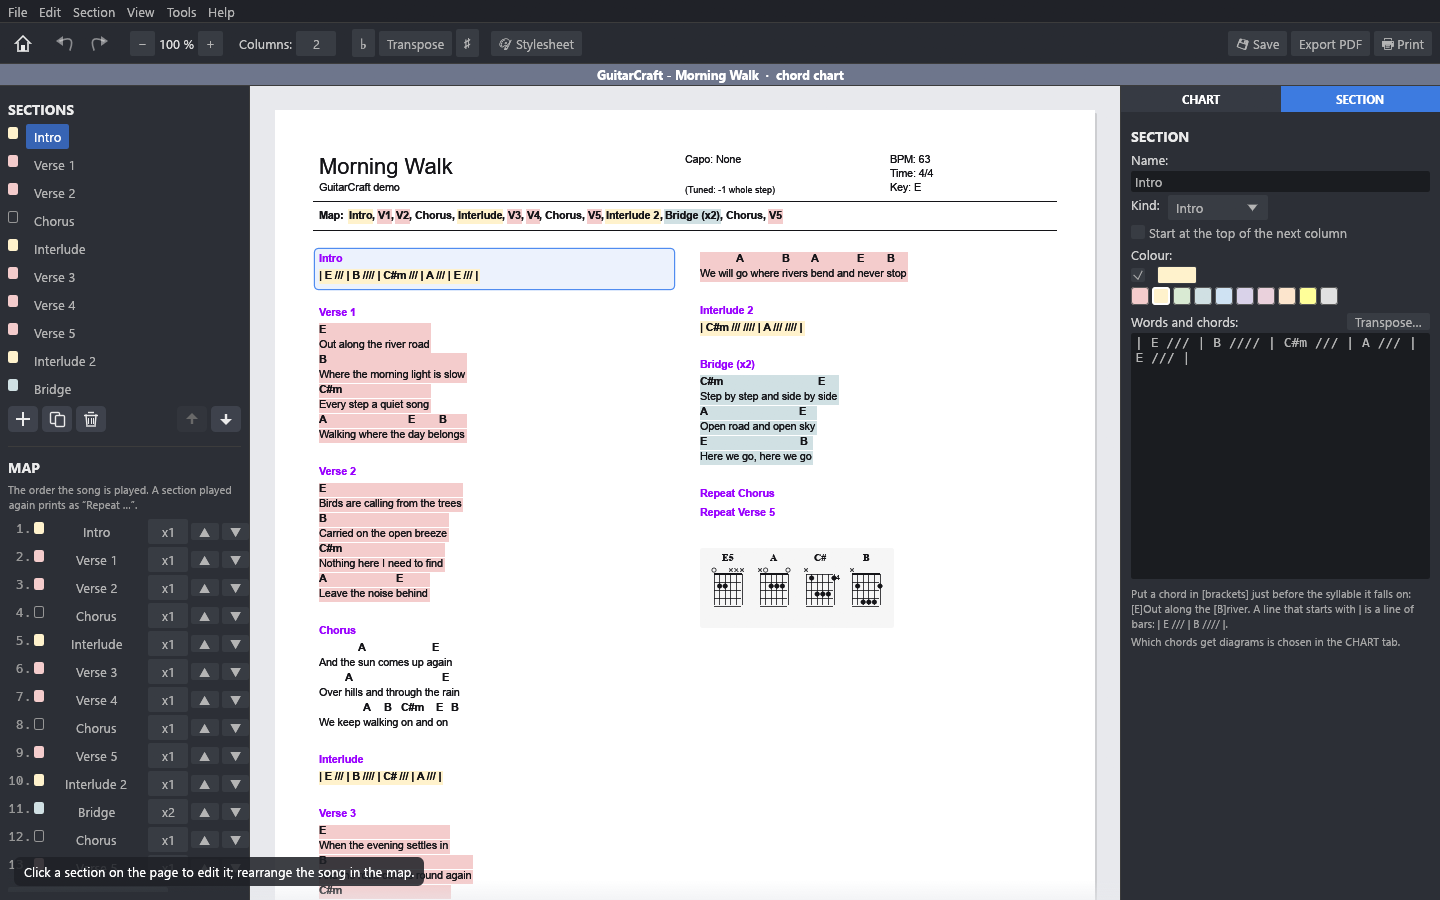
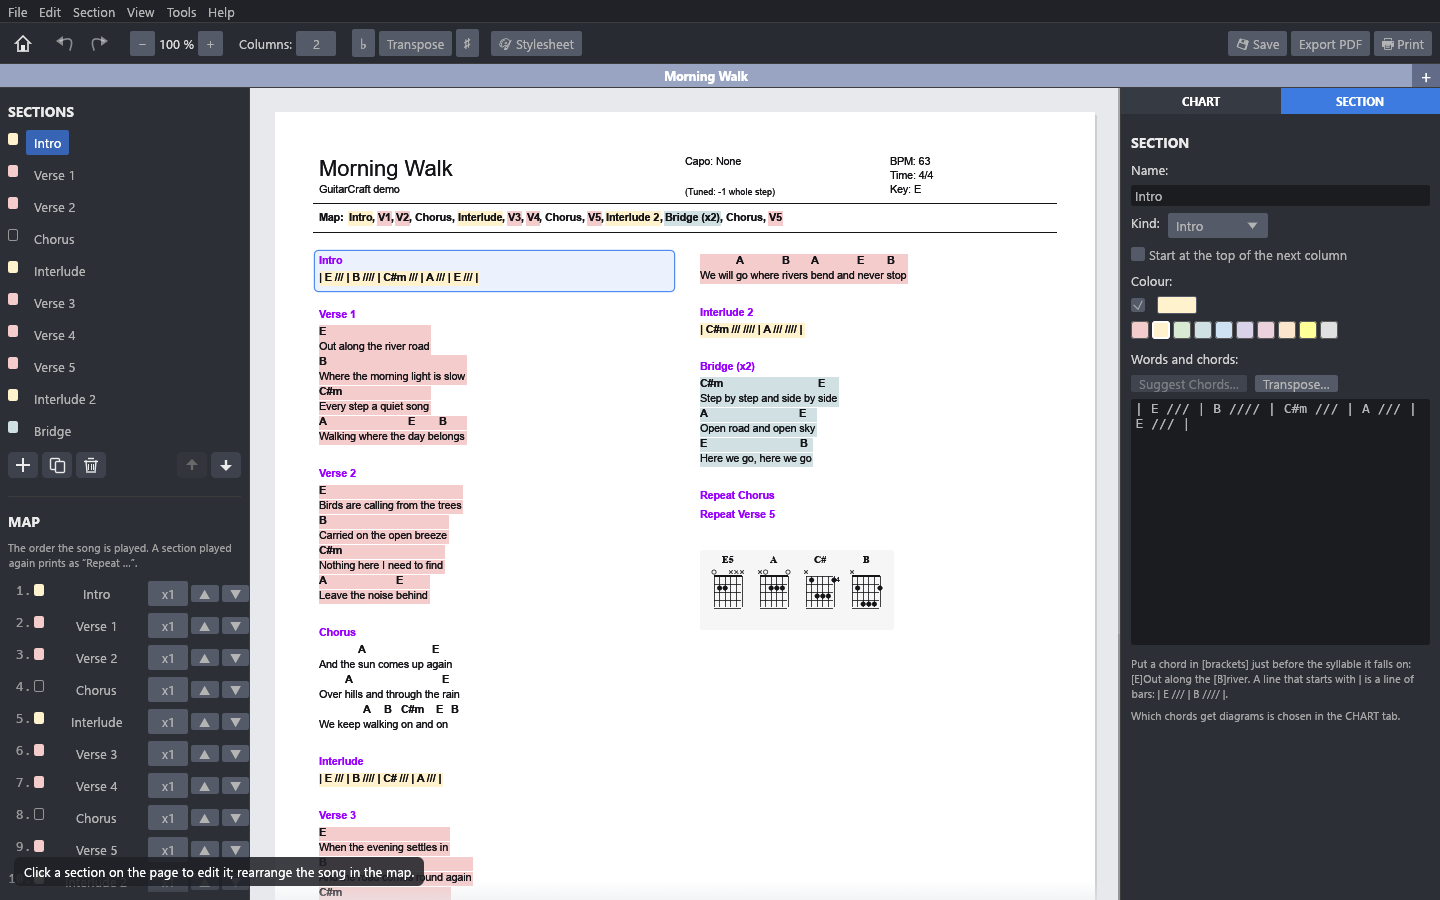
Shorten the readme to a brief overview, with new pictures
The readme now says what GuitarCraft is, lists its features in a line each, covering what 0.11.0
adds, and shows three pictures taken from the current app. Supported systems, building, the
command-line options, testing and releasing move to docs/development.md. How to use things is
left to the user guide in the app.

diff --git a/README.md b/README.md
@@ -1,160 +1,53 @@
 # GuitarCraft
 
-<p align="center"><img src="docs/readme/editing.png" alt="GuitarCraft editing the demo song: the editing palette on the left, a steel guitar and a bass in standard notation and tablature, the song information on the right and the tracks with their mixer below" width="800"></p>
+GuitarCraft is a desktop app for Windows for writing, editing and playing guitar music in tablature and standard notation, and for making chord charts: lyrics with the chords above them, ready to print.
 
-**GuitarCraft** is a desktop app, written in Rust, for writing, editing and playing guitar music in tablature and standard notation, and for making chord charts: lyrics with the chords above them, ready to print.
+It is a clean-room clone of Guitar Pro 8, generated with [Craft Anything](https://github.com/storytold/craft-anything). The goal is a good music editor rather than an exact copy.
 
-It is a **clean-room clone of Guitar Pro 8**, generated with [Craft Anything](https://github.com/storytold/craft-anything). "Clean room" means the original program was never opened, run, decompiled or read: GuitarCraft was built from screenshots, the public user guide, and the community-documented file formats.
+**It is an early version for trying out.** Save your work often, and keep a copy of any song you care about before editing it.
 
-The goal is a good music editor, not an exact copy of Guitar Pro 8. GuitarCraft follows the original where that helps, but some of its features, such as the recorded sound banks, the pedalboard and audio tracks, may never be cloned.
-
-GuitarCraft opens and saves Guitar Pro files (`.gp` and `.gp5`) and also opens `.gpx`, `.gp3`, `.gp4`, MusicXML, MIDI and plain-text tab, so you can keep working on the songs you already have. A song saved by GuitarCraft opens in Guitar Pro 8, with its tracks, notes, tuning, volume, pan, mute, solo and hidden tracks.
-
-## Status
-
-**An early version for trying out.** It is usable for writing and playing songs, but it is young: please save your work often, and keep a copy of any song you care about before editing it.
-
-Not there yet: importing TablEdit and Power Tab files. Expect rough edges and differences from the original.
-
-Not planned for now: the original's recorded sound banks and effects, the pedalboard, audio tracks and line-in. These are about sound production rather than writing music, so they may never be added.
-
-<p align="center"><img src="docs/readme/playing.png" alt="Playback: an orange cursor on the note being heard in every track, and the bar being played lightly shaded" width="800"></p>
-
-<p align="center">
-<img src="docs/readme/band.png" alt="A five-track band song: vocals with lyrics, piano on a grand staff, guitar and bass with tablature, and drums on a percussion staff" width="395">
-<img src="docs/readme/tuning.png" alt="The Tuning window: a tuning chosen from the library, each string with its note and a play button, flats or sharps, capo and partial capo" width="395">
-</p>
+![GuitarCraft editing a song for guitar and bass, with the editing palette, the score and the track mixer](docs/readme/editing.png)
 
 ## Features
 
-### Chords & Scales
+- **Write songs** for guitar, bass, drums, keyboard and other instruments, in tablature, standard or numbered notation, with fretboard, keyboard and drumkit views to click notes in.
+- **Play them back** with the built-in sound or a MIDI device, with a mixer, looping and a speed trainer.
+- **Fine-tune how notes sound:** how long they last, how early or late they start and how loud they are.
+- **Keep your existing songs:** open Guitar Pro, MusicXML, MIDI and text tab files, and save songs that Guitar Pro 8 opens, keeping most of the settings its files already have.
+- **Export and print** to Guitar Pro, MIDI, MusicXML, text tab, PDF, images and audio, and convert many files at once.
+- **Find chords and scales** on the fretboard, or click some notes and see what chord they make.
+- **Make chord charts** from lyrics and chords, transpose them and print them.
+- **Arrange your workspace** with panels you can move, float or pop out into their own windows.
+- **Ask an assistant** (optional) about your music or about GuitarCraft, or for chords to go with your lyrics.
 
-**Tools > Chords & Scales** opens a pop-up toolkit for building and identifying chords, scales and arpeggios on a fretboard. Choose a root and a type from the lists and the notes light up on the neck, as note names or as intervals, over the whole neck or one position at a time. It has 47 scales and 48 chord types, in any of eight tunings or the tuning of the current track.
+The assistant uses Ollama or Claude, and nothing is sent until you ask. With Claude, your question and the related parts of your song or chart go to Anthropic; Claude Code also adds your account's email address, your operating system, the date and the top folder of your system drive.
 
-<p align="center">
-<img src="docs/readme/scales.png" alt="The Chords and Scales window on the Scales tab: D major shown over the whole fretboard, with the lists of roots, scales and positions, and buttons for notes or intervals, matching chords, playing and showing the notes on the main fretboard" width="800">
-</p>
+Not there yet: importing TablEdit and Power Tab files. Not planned for now: Guitar Pro's recorded sound banks and effects, the pedalboard, audio tracks and line-in.
 
-- **Scales and arpeggios:** see every note of a scale, or the notes of a chord played one after another. "Matching Chords" lists the chords built on a scale, "Matching Scales" the scales that fit a chord, and "Scales in the bar" finds the scales that hold every note of the bars you have selected. Play them, or show them on the fretboard under the score.
-- **Chords:** every chord type gets several playable fingerings, one for each part of the neck, drawn with finger numbers. The fingerings are worked out from the chord name and the tuning rather than looked up in a list, so unusual chords work too. "Put on beat" names the beat under the cursor and shows the chord diagram, and an empty beat gets the notes as well.
-- **Identify:** click the notes you are playing on the fretboard and GuitarCraft names the chord, lists its other names (such as `B sus2 / F♯` for the same notes) and the scales that contain them.
+## Screenshots
 
-<p align="center">
-<img src="docs/readme/chords.png" alt="The Chords tab: an E sus4 chord with its notes on the fretboard, and a list of fingerings with small diagrams" width="395">
-<img src="docs/readme/identify.png" alt="Identify: three notes clicked on the fretboard are named F sharp sus4, with other names (B sus2 over F sharp, B 5add9 over F sharp) and the scales that contain the notes" width="395">
-</p>
+**Writing a drum part with the drumkit view**
 
-<p align="center"><img src="docs/readme/arpeggios.png" alt="The Arpeggios tab: the notes of a D minor arpeggio over the whole fretboard, with the list of chord types and neck positions" width="800"></p>
+![A drum part in the score, with the drumkit view below it showing each sound of the kit](docs/readme/drums.png)
 
-### Chord charts
+**A chord chart**
 
-**Chord charts** (File > New Chord Chart, Ctrl+Shift+N) are a second kind of document for lead sheets. You write sections of lyrics with chords inline (`[E]Let my heart be a [B]temple`) or as bars of chords (`| E /// | B //// |`), and a map sets the order the sections are played in. Moving a section moves it in the map, and the text flows through the columns and pages as in a word processor. The chord diagrams are worked out from the chord names and are optional.
-
-<p align="center"><img src="docs/readme/chart.png" alt="A chord chart open for editing: the sections and the map on the left, the printed page in the middle with chords above the lyrics and coloured sections, and the chart and section settings on the right" width="800"></p>
-
-Transpose (Ctrl+T, or the ♭ and ♯ buttons) moves the whole chart or a single section into another key, with sharps or flats. The tempo, key and time use the same editors as a score. Charts have their own stylesheet (F7), with Standard and Stage styles, and they print and export like scores. They are saved as `.gcx` files. There is a sample in `samples/`.
-
-**Suggest Chords** (the Section panel, or the Section menu) asks Claude for chords to put on a section's words, in the chart's key and in a style you can describe. The section as it is shows beside the suggestion, and nothing changes until you press Use These; one Undo takes it back, and your words stay exactly as you wrote them. It needs Claude Code or a Claude API key switched on in Preferences > AI. Only that section's words, the key and the style are sent (Claude Code adds the details listed under AI Assistant below).
-
-### Import, export and batch conversion
-
-**File > Import** and **File > Export** are laid out like Guitar Pro 8's. Import takes MIDI, MusicXML (`.musicxml`, `.xml` and compressed `.mxl`) and ASCII tab. Export writes GPX (Guitar Pro 6), GP5, MIDI, ASCII tab, MusicXML, PDF, SVG, PNG and an audio recording (WAV). The GPX files are laid out as Guitar Pro 8 lays them out, and it opens them. (TablEdit and Power Tab are in the menu but greyed out, because their file formats aren't publicly described.) These menus work on scores; chord charts export to PDF and PNG.
-
-<p align="center">
-<img src="docs/readme/export-menu.png" alt="The File menu with the Export submenu open: GPX, GP5, MIDI, ASCII, MusicXML, PDF, SVG, PNG and Audio" width="300">
-<img src="docs/readme/batch.png" alt="The Batch Converter window: a list of files, a format to convert to, and where to save them" width="480">
-</p>
-
-The **Batch Converter** (File > Batch Converter) turns many song files into another format in one go: add files or a whole folder, pick the format (Guitar Pro, GPX, GP5, MIDI, MusicXML, ASCII tab or PDF), and save them next to the originals or in one folder.
-
-### More
-
-- With the start screen (Browse) showing, only File (open and import) and Help are available, as in Guitar Pro 8.
-- **Edition palette:** more note and beat marks (legato, wah, arpeggio, golpe, pick scrape, fingering, timer and more) and bar repeat signs. GuitarCraft writes and reads them the way Guitar Pro 8 stores them.
-- **Chord library** for the chords used in a track, and reworked track icons and styles.
-- **Printing:** File > Print (Ctrl+P), with a print preview.
-- **Score context menu:** right-click the score for cut, copy and paste (also on all tracks at once), Special Paste, and the Bar, Note and Effects menus.
-- **Special Paste** (Ctrl+Shift+V) pastes a selection several times over and lets you pick which extras come with it.
-- **Playback follow:** during playback the view scrolls with the line of music being played.
-- **Audio Note Settings:** Note > Audio Note Settings (Shift+F) changes how long a note sounds, how early or late it starts and how loud it is, for one note or a selection.
-- **Drumkit view:** in a song with a drum track, View > Panels > Show Drumkit View (or Ctrl+F6 on that track) shows the kit on a percussion staff and a list of every percussion sound. Click a sound to put it on the beat or take it off, or choose among the sounds of a staff line with the number keys.
-- **Dockable panels:** the editing palette, inspector, tracks, fretboard, keyboard, drumkit and AI Assistant can be dragged to any edge of the window, stacked as tabs, floated, or popped out into windows of their own (View > Pop Out Panel). The arrangement is remembered, and View > Reset Panel Layout puts it back.
-- **Layout dropdown and Split Score View:** the toolbar has a layout dropdown next to Zoom (its closed box shows only the current layout's icon), and the View menu is grouped into Panels, Notation and Score. View > Score > Split Score View shows the score in two views, one above the other, each with its own scroll, in the Page - Vertical and Screen - Vertical layouts. The view you clicked last follows the cursor and playback, and the bar between them can be dragged.
-- **Recent files:** two files with the same name are told apart by their extension or folder, and files that no longer exist are dropped from the list.
-- **Numbered (jianpu) notation:** the 2 button under Notation in the track settings adds a numbered lane between the notation staff and the tab, headed "1=G" (the key's tonic): scale degrees from the key's tonic, dots for octaves, underlines for short notes, dashes for long ones. It matches Guitar Pro 8's look, including grace notes, slur arcs and curved tuplet brackets, with one digit for a chord (its lowest note) and a lane for every voice in use.
-- **Command palette** (Ctrl+E) has three modes. Type `@` (or press Ctrl+Alt+E) for the **action list**: search and run any menu action, with its shortcut shown. Type `>` (or press Ctrl+Shift+E) for **expression text**: browse or type a chord, dynamic, key signature, octave sign or direction (such as `ff`, `G maj`, `8va`, `coda`) and put it on the score at the cursor, or any text above the beat.
-- **AI Assistant** (View > Panels > Show AI Assistant, or `ai` in the command palette): ask Ollama or Claude (through your own Claude Code sign-in, or with an API key) a question about your music or about GuitarCraft, in a panel you can dock or float like the others. Nothing is sent until you press Return; an outline of your song, a summary of the track (its key, the notes used and the scales that fit best) and the bars you have selected (or the one the cursor is on) go with each question, so it knows what you are asking about, and questions about using GuitarCraft are answered from the built-in user guide. There is nothing to tick. It answers only: it never changes your score (ask it how to do something and it answers from the guide). Set up the provider in Preferences > AI; if more than one is switched on, the first of Ollama, Claude Code and Claude (API key) answers. Claude Code needs the [Claude Code](https://code.claude.com/docs) program installed and signed in (`claude auth login`) and no API key; questions count against your Claude plan, and Claude Code adds your account's email address, your operating system, the date and the top folder of your system drive to what it sends.
-- **Preferences** (File > Preferences, Ctrl+,): default template, forced zoom, page layout, stylesheet and notation, reopening last session's files, the playing cursor, notation error checks, your details for new songs, the audio device and buffer, AI provider settings (Ollama, Claude Code and Claude, each with a connection test; the Claude API key is kept in the Windows Credential Manager, not in the preferences file; used by the AI Assistant panel), and keyboard shortcuts.
-- **MIDI** (Preferences > Audio & MIDI): choose a MIDI output and playback goes to that device, with each track's instrument, volume, pan and bends, and clicked notes sound there too. The built-in sound is silent while an output is chosen unless you ask for both. Choose a MIDI input and the notes you play on a MIDI keyboard are entered at the cursor, notes played together as a chord. MIDI playback has been heard through the Windows GS Wavetable Synth; entering notes from a keyboard is written but hasn't been tried with a real keyboard yet. Real-time recording isn't there yet.
-- **Mixer and tracks:** the mute and solo header buttons light up and clear every track at once, and hovering a bar number highlights that bar in every track.
+![A chord chart open for editing, with its sections and playing order beside the printed page](docs/readme/chart.png)
 
 ## Install
 
-On Windows, download the installer (`guitarcraft-<version>-windows-x64.msi`) from the [Releases page](https://github.com/CodeGator/GuitarCraft/releases) and run it. It installs just for you, with no administrator needed, unless you choose to install it for everyone. There is also a portable zip to run without installing. The installer isn't signed yet, so Windows may warn that the publisher is unknown: choose **More info → Run anyway**.
-
-Or build GuitarCraft yourself. It only takes a few minutes:
-
-1. Install Rust from <https://rustup.rs> (accept the defaults). On Windows, the installer also offers the Microsoft C++ build tools it needs.
-2. Download this repository (**Code → Download ZIP** on GitHub, then unzip it), or clone it with git.
-3. Open a terminal in the folder and run:
-
-   ```sh
-   cargo run --release
-   ```
-
-   The first build downloads the libraries it uses and takes a few minutes; after that it starts straight away. The program itself ends up in `target/release/`.
-
-To open a song directly: `cargo run --release -- "path/to/song.gp"`
+Download the installer or the portable zip from the [Releases page](https://github.com/CodeGator/GuitarCraft/releases). The installer isn't signed yet, so Windows may warn that the publisher is unknown: choose **More info → Run anyway**.
 
 ## Feedback
 
-GuitarCraft is young, and the most useful help is:
+The most useful help is to try GuitarCraft with your own songs and report what goes wrong on the Issues page, with the song file when you can share it. GuitarCraft isn't taking code contributions or pull requests for now.
 
-1. **Try it** with your own songs and tell us what happens, especially files that open wrongly or differ from the original.
-2. **Report bugs** in the Issues page, with the song file when you can share it.
+## Development
 
-GuitarCraft isn't taking code contributions or pull requests for now.
-
-## About the author
-
-I'm a .NET developer, and I'm using GuitarCraft as a way to learn Rust. The project was generated with [Craft Anything](https://github.com/storytold/craft-anything), and I'm working through the code to learn the language as it grows. Suggestions on writing more idiomatic Rust are as welcome as bug reports.
-
-## Supported systems
-
-| System | State |
-| --- | --- |
-| Windows 10 and 11 | Built and used every day |
-| macOS and Linux | The libraries it uses run there, but it hasn't been built or tried yet |
-
-## Building and testing
-
-```sh
-cargo build --release   # the program, in target/release/
-cargo test --workspace  # the tests, including the xtask helper commands
-```
-
-The tests check, among other things, that songs survive a round trip through `.gp` and `.gp5` files, and that GuitarCraft reads and writes marks, track settings and other parts of a `.gp` file the way Guitar Pro 8 does (checked against files saved by Guitar Pro 8, in `tests/fixtures/`; its README lists each file and the test that reads it).
-
-A few command-line options help with checking and converting:
-
-| Option | What it does |
-| --- | --- |
-| `--convert <from> <to>` | Opens a song (or `demo`) and saves it in the format of `<to>`, e.g. `.gp` or `.gp5` |
-| `--export <from> <to.pdf\|to.png> [dpi]` | Prints a song, chord chart, `demo` or `chart` (the sample chart) to a PDF or PNG |
-| `--screenshot <file.png>` | Draws the app, saves a picture and exits |
-| `--gp-tests <folder>` | Writes the demo song as several `.gp` test files |
-| `--gpx-tests <folder>` | Writes `.gpx` test files, made from the demo song and from a `.gpx` saved by Guitar Pro 8 |
-
-On Windows, GuitarCraft is a windowed app, so a terminal doesn't wait for it: its messages appear after the prompt returns. To wait for a run and get its exit code, use `Start-Process -Wait` in PowerShell or `start /wait` in cmd.
-
-## Releasing
-
-The version is kept in one place, `Cargo.toml`, and is changed with `cargo xtask version set X.Y.Z`. `packaging/windows/package.ps1` builds the Windows installer and a portable zip. See [docs/releasing.md](docs/releasing.md).
-
-## About the clean room
-
-GuitarCraft has no connection with Arobas Music, the maker of Guitar Pro. Guitar Pro is their trademark, used here only to say which program GuitarCraft imitates and which files it opens. The program's code, icons and demo song were all made from scratch; no part of the original program, its files or its sounds is included or was looked inside.
+GuitarCraft is written in Rust, and I'm a .NET developer using it as a way to learn the language, so suggestions are welcome. To build it, see the [development notes](docs/development.md).
 
 ## License
 
-GuitarCraft is free software, released under the [GNU General Public License, version 3 or later](LICENSE). You may use, share and change it; if you share a changed version, it must be under the same license, with its source code.
+GuitarCraft is free software under the [GNU General Public License, version 3 or later](LICENSE).
+
+"Clean room" means Guitar Pro was never opened, run, decompiled or read to build GuitarCraft: it was built from screenshots, the public user guide and community-documented file formats. GuitarCraft has no connection with Arobas Music; Guitar Pro is their trademark, used here only to say which program GuitarCraft imitates and which files it opens.

diff --git a/docs/development.md b/docs/development.md
@@ -1,0 +1,52 @@
+# Developing GuitarCraft
+
+## Supported systems
+
+| System | State |
+| --- | --- |
+| Windows 10 and 11 | Built and used every day |
+| macOS and Linux | The libraries it uses run there, but it hasn't been built or tried yet |
+
+## Building and running
+
+1. Install Rust from <https://rustup.rs> (accept the defaults). On Windows, the installer also offers the Microsoft C++ build tools it needs.
+2. Download this repository (**Code → Download ZIP** on GitHub, then unzip it), or clone it with git.
+3. Open a terminal in the folder and run:
+
+   ```sh
+   cargo run --release
+   ```
+
+   The first build downloads the libraries it uses and takes a few minutes; after that it starts straight away. The program itself ends up in `target/release/`.
+
+To open a song directly: `cargo run --release -- "path/to/song.gp"`. There are samples in `samples/`.
+
+## Building and testing
+
+```sh
+cargo build --release   # the program, in target/release/
+cargo test --workspace  # the tests, including the xtask helper commands
+```
+
+The tests check, among other things, that songs survive a round trip through `.gp` and `.gp5` files, and that GuitarCraft reads and writes marks, track settings and other parts of a `.gp` file the way Guitar Pro 8 does (checked against files saved by Guitar Pro 8, in `tests/fixtures/`; its README lists each file and the test that reads it). The tests are silent: they open no sound device or microphone.
+
+## Command-line options
+
+A few options help with checking and converting:
+
+| Option | What it does |
+| --- | --- |
+| `--convert <from> <to>` | Opens a song (or `demo`) and saves it in the format of `<to>`, e.g. `.gp` or `.gp5` |
+| `--export <from> <to.pdf\|to.png> [dpi]` | Prints a song, chord chart, `demo` or `chart` (the sample chart) to a PDF or PNG |
+| `--screenshot <file.png>` | Draws the app, saves a picture and exits |
+| `--show <names>` | With `--screenshot`, opens panels and windows first, e.g. `chart` or `band,drums,single` (see `src/app.rs`) |
+| `--gp-tests <folder>` | Writes the demo song as several `.gp` test files |
+| `--gpx-tests <folder>` | Writes `.gpx` test files, made from the demo song and from a `.gpx` saved by Guitar Pro 8 |
+
+On Windows, GuitarCraft is a windowed app, so a terminal doesn't wait for it: its messages appear after the prompt returns. To wait for a run and get its exit code, use `Start-Process -Wait` in PowerShell or `start /wait` in cmd.
+
+The readme's pictures are in `docs/readme/`, made with `--screenshot`: `editing.png` (no `--show`), `drums.png` (`--show band,drums,single`) and `chart.png` (`--show chart`).
+
+## Releasing
+
+The version is kept in one place, `Cargo.toml`, and is changed with `cargo xtask version set X.Y.Z`. `packaging/windows/package.ps1` builds the Windows installer and a portable zip. See [releasing.md](releasing.md).
